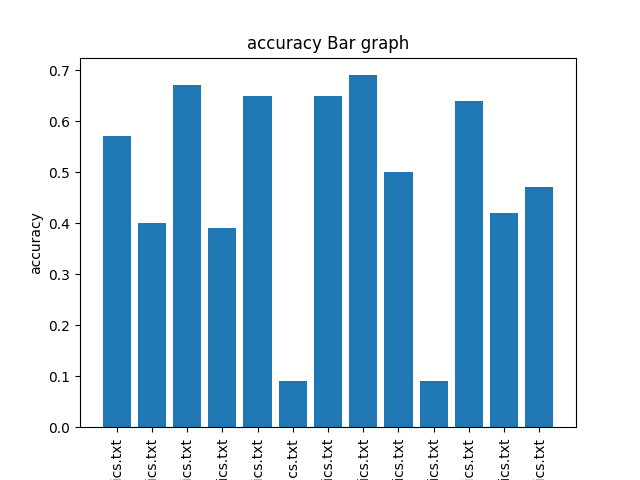
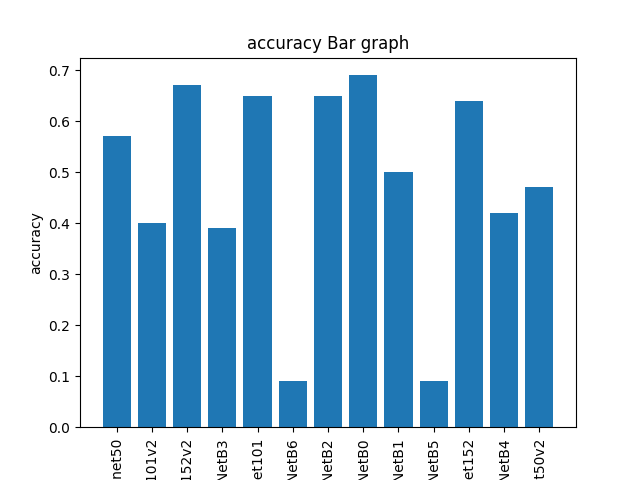
removed full file name from plots

diff --git a/dcnn/metrics_agg.py b/dcnn/metrics_agg.py
@@ -68,7 +68,7 @@ def create_bar(metrics, col):
     
     for model, metrics in metrics.items():
         m = metrics[col]
-        cat.append(model)
+        cat.append(model.split("_")[0])
         val.append(m)
     plt.bar(cat, val,)
 
@@ -124,3 +124,5 @@ if __name__=="__main__":
     create_bar(models, "precision")
     create_bar(models, "recall")
 
+
+    
